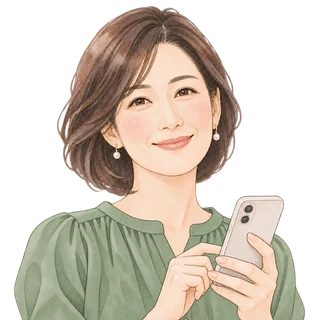
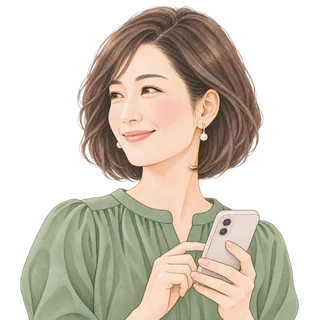
Enlarge and blend the side-facing Yui V2 contact illustration

diff --git a/yui-tsunagaru-v2/index.html b/yui-tsunagaru-v2/index.html
@@ -675,17 +675,19 @@ body {
 }
 .contact-portrait {
   position: absolute;
-  top: -12px;
+  top: -50px;
   right: 10px;
-  width: 112px;
-  height: 94px;
+  width: 152px;
+  height: 134px;
   object-fit: contain;
   object-position: right bottom;
+  -webkit-mask-image: linear-gradient(#000 78%, transparent 100%);
+  mask-image: linear-gradient(#000 78%, transparent 100%);
   pointer-events: none;
 }
 @media (max-width: 760px) {
   .contact-intro .en { min-height: 63px; }
-  .contact-portrait { right: 4px; width: 94px; height: 77px; }
+  .contact-portrait { top: -40px; right: 4px; width: 120px; height: 105px; }
 }
 </style>
 <script type="application/ld+json">
@@ -1175,7 +1177,7 @@ body {
 <!-- ⑦ お問い合わせ -->
 <section class="contact" id="contact">
 <div class="wrap"><div class="contact-intro">
-  <img class="contact-portrait" src="img/contact-portrait.webp?v=sage" alt="" width="320" height="320" loading="lazy">
+  <img class="contact-portrait" src="img/contact-portrait.webp?v=sage-side" alt="" width="320" height="320" loading="lazy">
   <span class="en">Contact</span>
   <h2><span class="text-marker">お電話または公式LINE<br>で、お気軽にどうぞ。</span></h2>
   <a class="tel-big" href="#contact">070-XXXX-XXXX</a>
